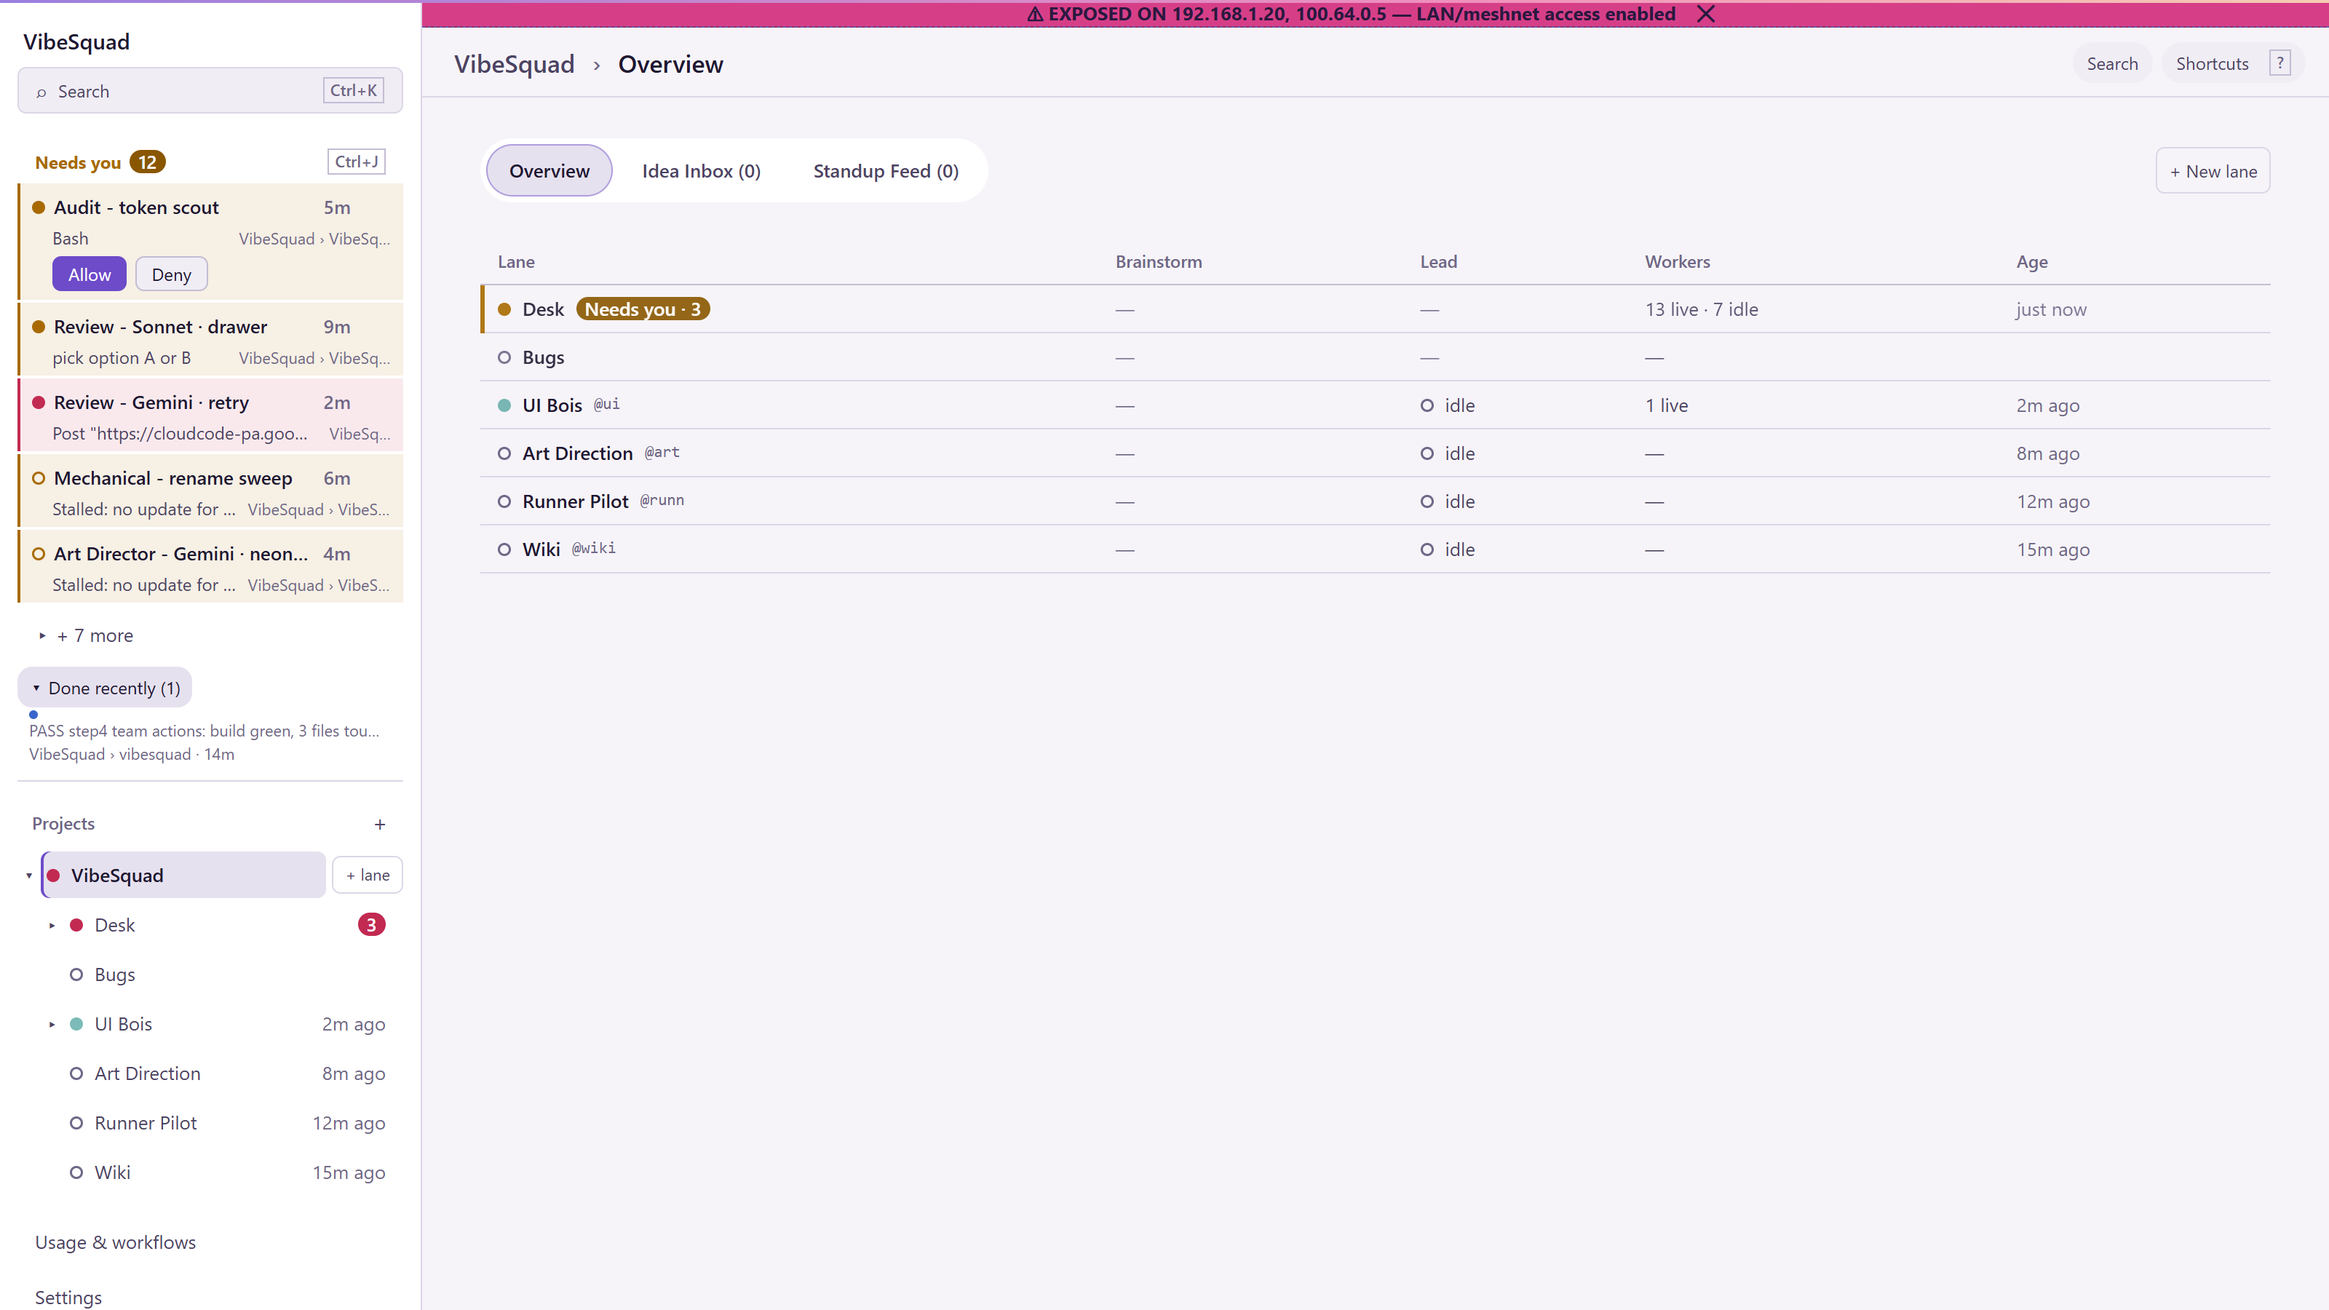
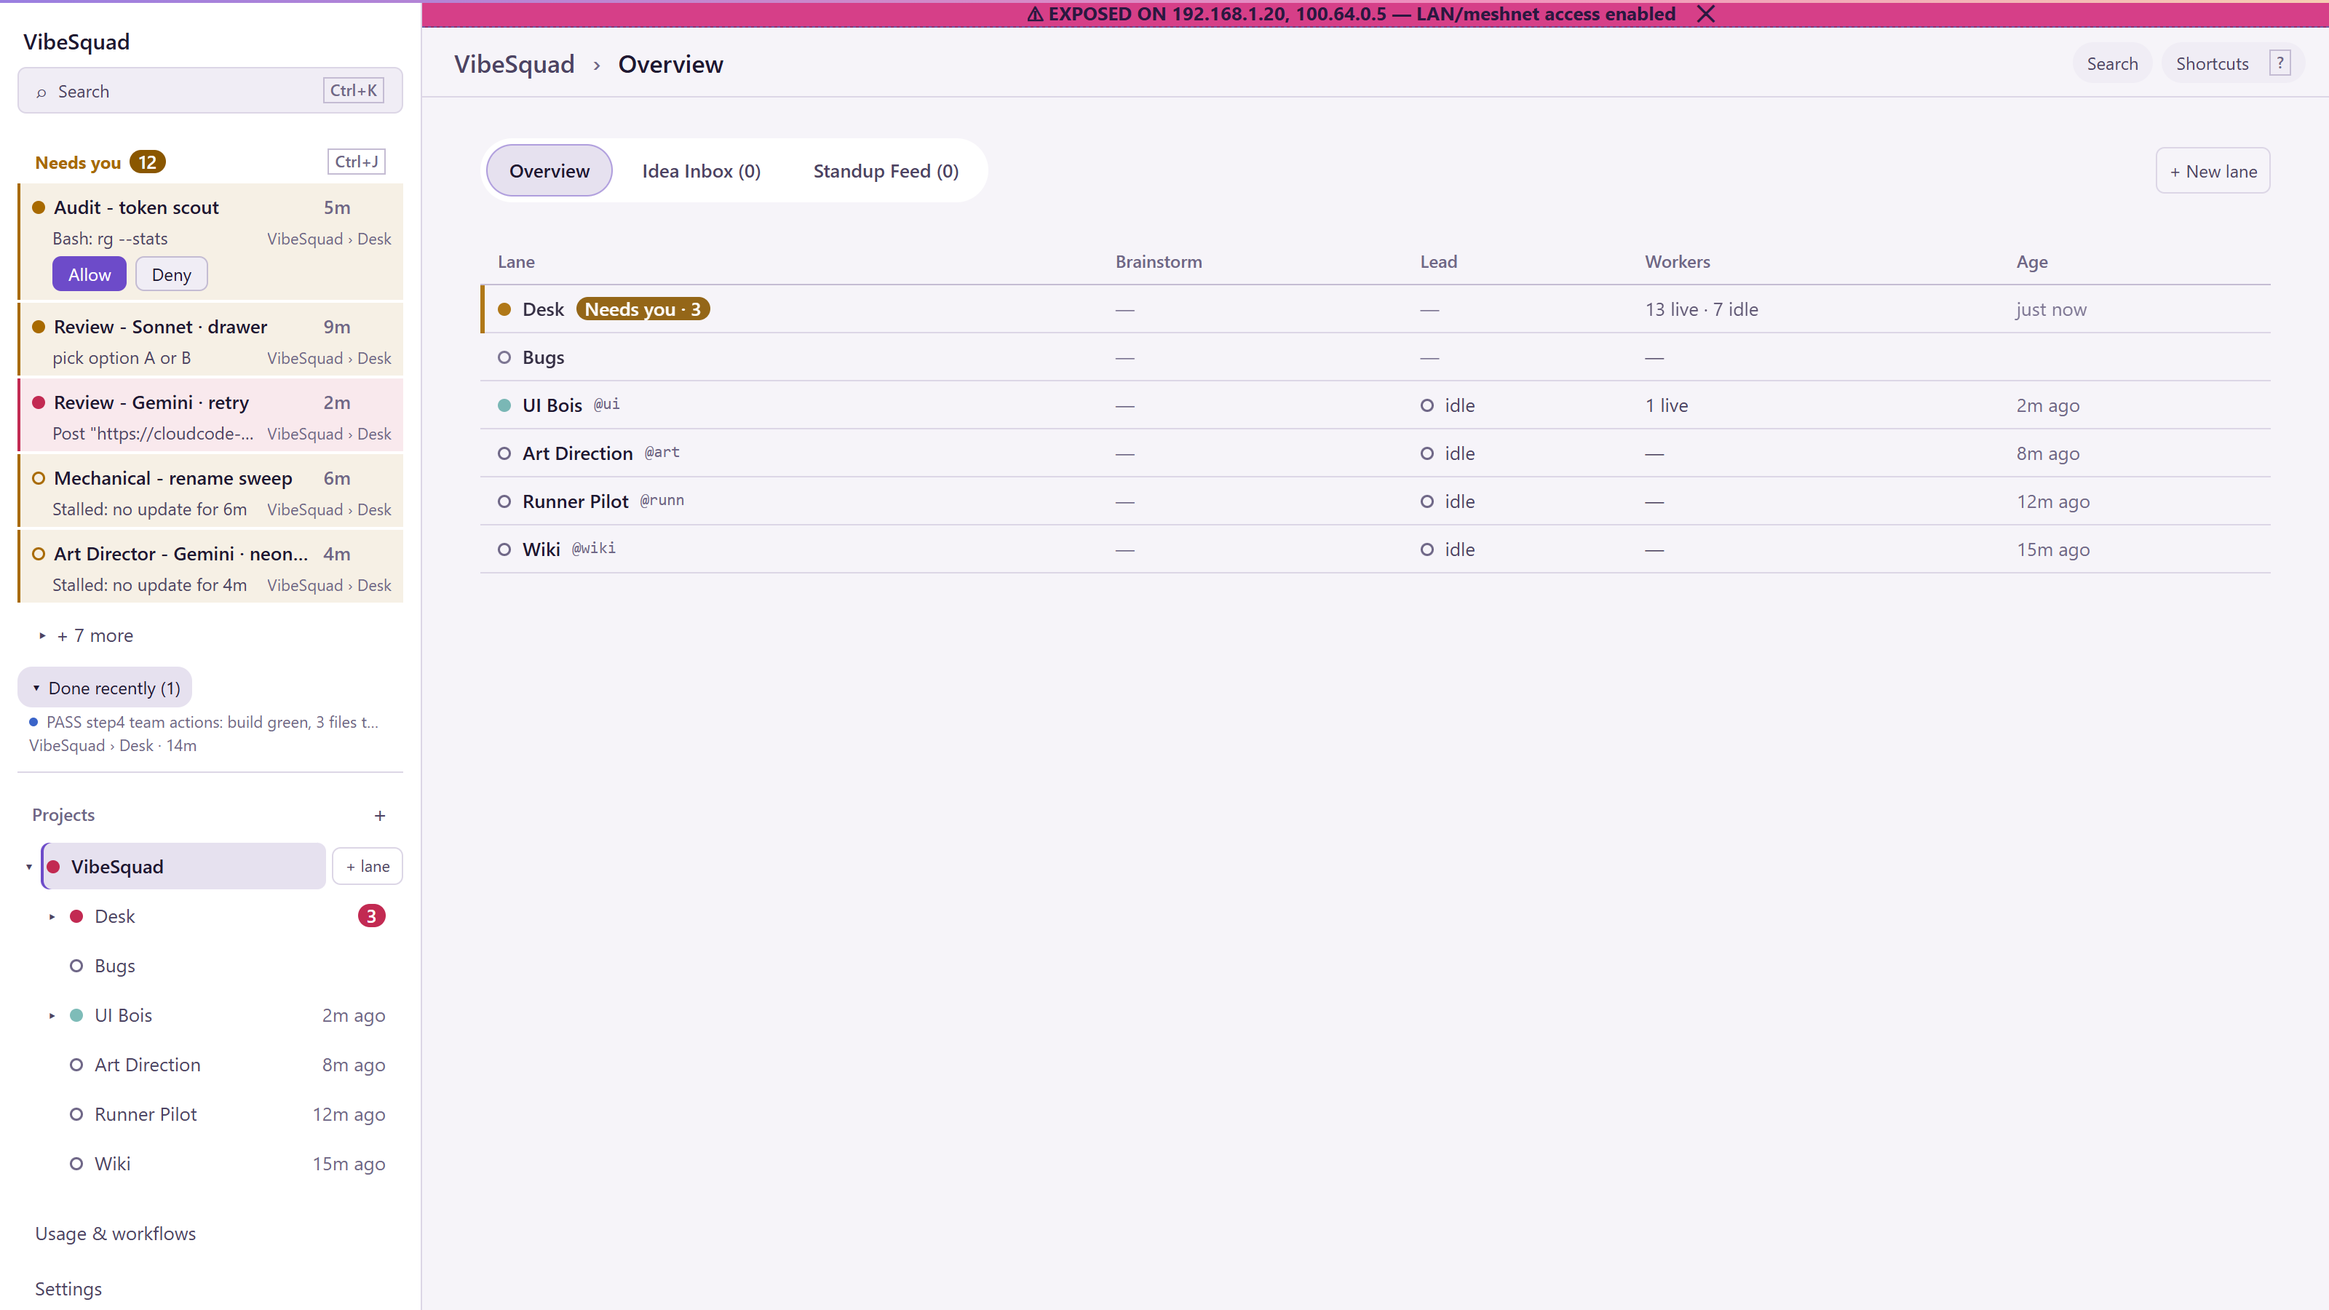
Desk R2 Unit 2 r2: one hub/lane location resolver, Done recently dot inline
- boringLocation.ts: boringLocationLane (Desk for no lane / laneId==team.id / hub; others via boringLaneLabel),
  boringLaneLabel moved here and re-exported from BoringAde. Used by needsYouRows and doneRecently.
- Location no longer truncated by long reasons; Done recently log row keeps dot inline.
- NICEs: legacy "★ MAIN GAME ord75" titles cleaned; permission reason uses p.title ("Bash: rg --stats").
- Retaken 6 shots.

diff --git a/src/BoringInbox.tsx b/src/BoringInbox.tsx
@@ -4,7 +4,8 @@ import { clearUnreadLocal, dismissLocal, snoozeLocal } from "./attentionLocal";
 import type { FeedEntry } from "./demo";
 import { bumpAgents, clearAgentAttention, clearNeedsYou, snoozeNeedsYou } from "./paseo";
 import { respondToPermission } from "./PermissionCard";
-import { isHubLane, type Member, type TeamView } from "./teams";
+import { boringLocationLane } from "./boringLocation";
+import type { Member, TeamView } from "./teams";
 import { cleanTitle } from "./ui";
 import { fetchLog } from "./TeamFeed";
 
@@ -35,6 +36,7 @@ export function needsYouReason(item: Pick<AttentionItem, "kind" | "reason" | "ag
   const tool = p.name ?? p.title;
   const arg = [p.input?.command, p.detail?.command, p.input?.file_path, p.input?.path, p.input?.pattern].find((v): v is string => typeof v === "string" && v.length > 0);
   if (!tool) return item.reason;
+  if (!arg && typeof p.title === "string" && p.title.startsWith(tool)) return p.title;
   return arg ? `${tool}: ${arg}` : tool;
 }
 
@@ -57,8 +59,8 @@ export function needsYouRows(views: TeamView[], now = Date.now()): NeedsYouRow[]
       const member = byId.get(item.id);
       if (!member) continue;
       const laneDef = view.team.lanes.find((l) => l.id === member.laneId);
-      const hub = laneDef ? isHubLane(view.team, laneDef) : !member.laneId;
-      const lane = hub ? "Desk" : laneDef?.name ?? member.laneId ?? "Desk";
+      const lane = boringLocationLane(view.team, member.laneId, view.lanes?.map((l) => l.lane));
+      const hub = lane === "Desk";
       const since = itemSince(item);
       const who = legacyLeadTitle(cleanTitle(item.who), { laneName: laneDef?.name, laneId: member.laneId ?? undefined, hub });
       rows.push({ item, member, view, teamId: view.team.id, project: view.team.name, lane, age: formatAge(since, now), since: since ?? Infinity, who });
@@ -77,9 +79,9 @@ export function recentDone(logs: DoneLog[], limit = 12): DoneRow[] {
 
 type DoneItem = { key: string; text: string; where: string; age: string; ts: number; row?: NeedsYouRow };
 /** Done recently: agents that finished and wait to be read, plus the newest `done` log entries; newest first, capped. */
-export function doneRecently(finished: NeedsYouRow[], logs: DoneLog[], limit = RECENT_DONE_VISIBLE, now = Date.now()): DoneItem[] {
+export function doneRecently(finished: NeedsYouRow[], logs: DoneLog[], limit = RECENT_DONE_VISIBLE, now = Date.now(), views: TeamView[] = []): DoneItem[] {
   const fromAgents: DoneItem[] = finished.map((r) => ({ key: `fin|${r.item.id}`, text: needsYouReason(r.item), where: `${r.project} › ${r.lane}`, age: r.age, ts: Number.isFinite(r.since) ? r.since : 0, row: r }));
-  const fromLog: DoneItem[] = recentDone(logs, limit).map((d) => ({ key: `${d.teamId}|${d.entry.ts}|${d.entry.agent}`, text: d.entry.text, where: `${d.project}${d.entry.lane ? ` › ${d.entry.lane}` : ""}`, age: formatAge(Date.parse(d.entry.ts), now), ts: Date.parse(d.entry.ts) || 0 }));
+  const fromLog: DoneItem[] = recentDone(logs, limit).map((d) => ({ key: `${d.teamId}|${d.entry.ts}|${d.entry.agent}`, text: d.entry.text, where: `${d.project} › ${boringLocationLane(views.find((v) => v.team.id === d.teamId)?.team ?? { id: d.teamId, lanes: [] }, d.entry.lane, views.find((v) => v.team.id === d.teamId)?.lanes?.map((l) => l.lane))}`, age: formatAge(Date.parse(d.entry.ts), now), ts: Date.parse(d.entry.ts) || 0 }));
   return [...fromAgents, ...fromLog].sort((a, b) => b.ts - a.ts).slice(0, limit);
 }
 
@@ -103,7 +105,7 @@ export function BoringInbox({ views, onOpen, now = Date.now(), logs: injected }:
   const rows = all.filter((r) => r.item.kind !== "finished");
   const finished = all.filter((r) => r.item.kind === "finished");
   const shown = showAll ? rows : rows.slice(0, NEEDS_YOU_VISIBLE);
-  const done = doneRecently(finished, injected ?? fetched, RECENT_DONE_VISIBLE, now);
+  const done = doneRecently(finished, injected ?? fetched, RECENT_DONE_VISIBLE, now, views);
   const run = (id: string, fn: () => Promise<void>) => {
     setBusy(id);
     setErr(null);
@@ -189,8 +191,7 @@ export function BoringInbox({ views, onOpen, now = Date.now(), logs: injected }:
                 </li>
               ) : (
                 <li key={d.key} className="boring-done-row" data-testid="boring-recent-done-item" title={d.text}>
-                  <span className="boring-dot st-done" />
-                  <span className="boring-done-text">{d.text}</span>
+                  <div className="boring-needs-line"><span className="boring-dot st-done" /><span className="boring-done-text">{d.text}</span></div>
                   <span className="boring-needs-where">{d.where} · {d.age}</span>
                 </li>
               ),

diff --git a/src/BoringAde.tsx b/src/BoringAde.tsx
@@ -7,6 +7,7 @@ import { openAgent, usePanes } from "./panes";
 import { sendMessage, usePaseo } from "./paseo";
 import { createQuickBugsPin } from "./pinActions";
 import { openPinMember, spinUpPin } from "./pinFocus";
+import { boringLaneLabel } from "./boringLocation";
 import { isHubPin, isLive, liveBuddyId, perfectionPin, pinsForSquad, quickBugsChipState, type Pin } from "./pins";
 import { formatTimestamp, setPref } from "./prefs";
 import { runCheckin } from "./railCheckin";
@@ -91,11 +92,7 @@ export function boringAgentLanding(views: TeamView[], agentId: string | null | u
   return known(agentId) ? { view: null, sel: null, mode: "chat" } : null;
 }
 
-const ACRONYMS = new Set(["ui", "ux", "ade", "api", "cli", "ci", "cd", "qa", "ai", "mcp", "sdk", "url", "db", "css", "html", "id", "pr", "vs", "ide", "os", "tts", "gpu", "cpu", "efi"]);
-/** Normal-mode lane name: keeps known acronyms upper-case ("Ui Lab" → "UI Lab"). */
-export function boringLaneLabel(name: string | null | undefined): string {
-  return String(name ?? "").replace(/[A-Za-z]+/g, (w) => (ACRONYMS.has(w.toLowerCase()) && (w === w.toLowerCase() || w === w[0].toUpperCase() + w.slice(1).toLowerCase()) ? w.toUpperCase() : w));
-}
+export { boringLaneLabel };
 
 const URGENCY: Record<string, number> = { permission: 0, "needs-you": 1, error: 2 };
 const urgencyOf = (m: { attention?: { tone?: string } | null } | null | undefined) => (m?.attention?.tone != null && m.attention.tone in URGENCY ? URGENCY[m.attention.tone] : null);

diff --git a/src/boringLocation.ts b/src/boringLocation.ts
@@ -1,0 +1,19 @@
+import { isHubLane, type LaneDef, type TeamDef } from "./teams.ts";
+
+const ACRONYMS = new Set(["ui", "ux", "ade", "api", "cli", "ci", "cd", "qa", "ai", "mcp", "sdk", "url", "db", "css", "html", "id", "pr", "vs", "ide", "os", "tts", "gpu", "cpu", "efi"]);
+/** Normal-mode lane name: keeps known acronyms upper-case ("Ui Lab" → "UI Lab"). */
+export function boringLaneLabel(name: string | null | undefined): string {
+  return String(name ?? "").replace(/[A-Za-z]+/g, (w) => (ACRONYMS.has(w.toLowerCase()) && (w === w.toLowerCase() || w === w[0].toUpperCase() + w.slice(1).toLowerCase()) ? w.toUpperCase() : w));
+}
+
+/**
+ * The lane half of a "Project › Lane" location. The hub, a lane named after the project (id === team id, as the sidebar folds
+ * into the Desk) and no lane at all all read "Desk"; any other lane reads its registered name via boringLaneLabel (a raw slug as the last resort).
+ */
+export function boringLocationLane(team: Pick<TeamDef, "id" | "lanes">, laneKey: string | null | undefined, extraLanes: Pick<LaneDef, "id" | "name" | "hub">[] = []): string {
+  const key = (laneKey ?? "").trim();
+  if (!key || key.toLowerCase() === team.id.toLowerCase()) return "Desk";
+  const lane = [...team.lanes, ...extraLanes].find((l) => l.id.toLowerCase() === key.toLowerCase());
+  if (lane && isHubLane(team, lane)) return "Desk";
+  return boringLaneLabel(lane?.name ?? key);
+}

diff --git a/src/boring.css b/src/boring.css
@@ -1195,3 +1195,9 @@ html[data-vibe="boring"] .boring-worker-why { flex: 1 0 100%; padding-left: 14px
 html[data-vibe="boring"] .boring-worker-row.needs-err .boring-worker-why { color: var(--st-err); }
 html[data-vibe="boring"] .boring-worker-row.needs-attn .boring-worker-why { color: var(--st-attn); }
 html[data-vibe="boring"] .boring-needs-item > .boring-needs-actions { padding: 3px 0 2px 14px; }
+
+/* Desk R2 Unit 2 round 2: location never truncated by a long reason; Done recently log row keeps its dot inline. */
+html[data-vibe="boring"] .boring-needs-reason { flex: 1 1 0; }
+html[data-vibe="boring"] .boring-needs-why .boring-needs-where { flex: 0 0 auto; max-width: 55%; }
+html[data-vibe="boring"] .boring-done-row > .boring-needs-line { grid-column: 1; }
+html[data-vibe="boring"] .boring-done-row > .boring-needs-line .boring-done-text { flex: 1; min-width: 0; }

diff --git a/src/attentionItems.ts b/src/attentionItems.ts
@@ -84,7 +84,7 @@ export function attentionItems(members: Member[], now?: number): AttentionItem[]
 
 /** Legacy v1 lead titles ("Lead · ord75", "★ lead · ord75") read as the current name: "Overlord" on the hub, else the lane code + ord. */
 export function legacyLeadTitle(who: string, lane: { laneName?: string; laneId?: string; hub?: boolean }): string {
-  const m = /^(?:★\s*)?(?:lead\s*·\s*)?ord(\d+)\s*(?:·\s*(.+))?$/i.exec(who.trim());
+  const m = /^(?:(?:★\s*)?(?:lead\s*·\s*)?|★\s*[^·]+?\s+)ord(\d+)\s*(?:·\s*(.+))?$/i.exec(who.trim());
   if (!m) return who;
   return formatDisplayTitle({ role: "lead", laneName: lane.laneName, laneId: lane.laneId, ord: m[1], job: m[2], hub: lane.hub }).replace(/^★\s*/, "");
 }

diff --git a/docs/shots/desk-r2-needs-you/REVIEW_buddy_r1.md b/docs/shots/desk-r2-needs-you/REVIEW_buddy_r1.md
@@ -1,0 +1,46 @@
+# Desk Buddy Look-Check R1 — `unit-desk-r2-needs-you` (`f32e7e8`)
+
+**Verdict:** FAIL (2 visual MUSTs visible in all 6 screenshots, 2 small NICEs)
+
+Reviewed all 6 screenshots at 4K@120% dark + light:
+- `needs-you-dark-sidebar.png` / `needs-you-light-sidebar.png`
+- `needs-you-dark-expanded.png` / `needs-you-light-expanded.png`
+- `needs-you-dark-hover-menu.png` / `needs-you-light-hover-menu.png`
+
+## What's working well
+- **2-line compact rows & cap 5 + `+ N more` (`R2.4`):** Non-permission rows are 2 lines (`who + age` on line 1, `reason + location` on line 2); only quick permissions render inline `[Allow]` / `[Deny]` buttons; list caps at 5 with `▸ + 7 more` / `▾ Show fewer`.
+- **Count matches rows & `finished` moved to `Done recently` (`R2-5`):** `Needs you` badge count (`12`) equals the rows in `Needs you` (5 shown + 7 folded); `finished` items are excluded from `Needs you` and routed to `Done recently`.
+- **Hover `⋯` menu (`R2-6`):** `needs-you-{dark,light}-hover-menu.png` confirms `⋯` appears on row hover/focus with `Snooze 2h` (and `Dismiss` on non-permission rows).
+- **Worst-state container dots & Unit 1 carry-overs (`R2.5`):** `VibeSquad` project dot and `Desk` dot both show red (`st-err`) matching the worst state inside, and `.boring-desk-children > .boring-worker-list { padding-left: 0; }` is in place.
+
+---
+
+## MUSTs (block merge)
+
+### MUST 1 — Hub location still renders `"VibeSquad › VibeSq..."` & `"VibeSquad › vibesquad"` instead of `"VibeSquad › Desk"`, and dynamic lanes render raw slugs like `"VibeSquad › ui-bois"` (`R2-7` / `R2.4`)
+- **Evidence in shots:**
+  - In all 6 shots, every VibeSquad hub row in `Needs you` reads `VibeSquad › VibeSq...` on line 2 instead of `VibeSquad › Desk`.
+  - In `needs-you-{dark,light}-expanded.png` (row 10, `Implement - overlap guard`), the location reads `VibeSquad › ui-bois` (raw slug) instead of `VibeSquad › UI Bois`.
+  - In all 6 shots, the `Done recently (1)` row reads `VibeSquad › vibesquad · 14m` instead of `VibeSquad › Desk · 14m`.
+- **Root cause & fix (`src/BoringInbox.tsx:59-61, 82`, `src/boring.css:1172-1173`):**
+  1. In `needsYouRows` (`src/BoringInbox.tsx:59-61`), `isHubLane(view.team, laneDef)` returns `false` for `lane.id === view.team.id` (`"vibesquad"`) whenever the live `teams.json` also has an explicit `hub: true` lane (such as `riffbot`) or when `vibesquad` is a dynamic lane not in `view.team.lanes`. Meanwhile `BoringAde.tsx:78-79, 180, 202` treats both `isHubPin` and `lane.id === view.team.id` as `Desk`.
+     - Treat `!member.laneId || member.laneId.toLowerCase() === view.team.id.toLowerCase() || (laneDef ? isHubLane(view.team, laneDef) : false)` as `hub = true` (`lane = "Desk"`).
+     - For non-hub lanes, look up the lane in both `view.team.lanes` and `view.lanes` (`view.lanes?.find((l) => l.lane.id.toLowerCase() === member.laneId?.toLowerCase())?.lane`) and format with `boringLaneLabel(...)` so `ui-bois` renders as `"UI Bois"`.
+  2. In `doneRecently` (`src/BoringInbox.tsx:82`), `d.entry.lane` is interpolated raw (`` `${d.project}${d.entry.lane ? ` › ${d.entry.lane}` : ""}` ``), producing `VibeSquad › vibesquad`. Map `d.entry.lane` through the same hub/lane-name resolver so hub entries (`!d.entry.lane || d.entry.lane.toLowerCase() === d.teamId.toLowerCase()`) read `VibeSquad › Desk`.
+  3. In `src/boring.css:1172-1173`, set `.boring-needs-reason { flex: 1 1 0; min-width: 0; }` and `.boring-needs-why .boring-needs-where { flex: 0 0 auto; max-width: 55%; text-align: right; }` so `VibeSquad › Desk` is never truncated by a long reason string on the left.
+
+### MUST 2 — `Done recently` log row stacks the blue `.st-done` dot on its own line above the text (`src/boring.css:1186-1187`)
+- **Evidence in shots:**
+  - In all 6 shots, under `▾ Done recently (1)`, the blue `.boring-dot.st-done` sits on a separate line *above* `PASS step4 team actions: build green, 3 files tou...` instead of inline to the left of the text.
+- **Root cause & fix (`src/boring.css:1186-1187`, `src/BoringInbox.tsx:191-195`):**
+  - `src/boring.css:1186-1187` sets `.boring-done-row { grid-template-columns: 1fr auto; }` and `.boring-done-row > .boring-dot, .boring-done-row > .boring-done-text { grid-column: 1; }`, which places both the dot and the text into column 1 of the grid, stacking them vertically in two grid rows.
+  - Fix: in `src/BoringInbox.tsx:191-195`, wrap the dot + text in `<div className="boring-needs-line"><span className="boring-dot st-done" /><span className="boring-done-text">{d.text}</span></div>` (matching the structure of `d.row` items), or set `.boring-done-row` to align dot and text inline on row 1 with `.boring-needs-where` indented (`padding-left: 14px`) on row 2.
+
+---
+
+## NICEs (easy polish while touching `src/BoringInbox.tsx` / `src/attentionItems.ts`)
+
+1. **`legacyLeadTitle` with uppercase lane name (`src/attentionItems.ts:87`, `R2-10`):**
+   - `legacyLeadTitle` currently matches `/^(?:★\s*)?(?:lead\s*·\s*)?ord(\d+)\s*(?:·\s*(.+))?$/i`, which handles `"Lead · ord75"` and `"★ Lead · ord75"`, but misses `"★ MAIN GAME ord75"` / `"★ UI BOIS ord9"` where the v1 lane name sits between `★` and `ord<N>`. Broadening the optional middle group to `(?:[a-z0-9_-]+(?:\s+[a-z0-9_-]+)*\s+)?` catches `"★ MAIN GAME ord75"` while keeping `"Fix the login bug"` untouched.
+2. **Permission reason when command is in `p.title` (`src/BoringInbox.tsx:35-38`):**
+   - In `needs-you-{dark,light}-sidebar.png`, `Audit - token scout` shows `Bash` instead of `Bash: rg --stats` (`docs/UX_REVIEW_R2.md:53`) because `src/demo.tsx:75` has `name: "Bash", title: "Bash: rg --stats"` with no `input.command`. If `!arg && p.title && p.title.startsWith(tool)`, returning `p.title` displays `Bash: rg --stats`.
